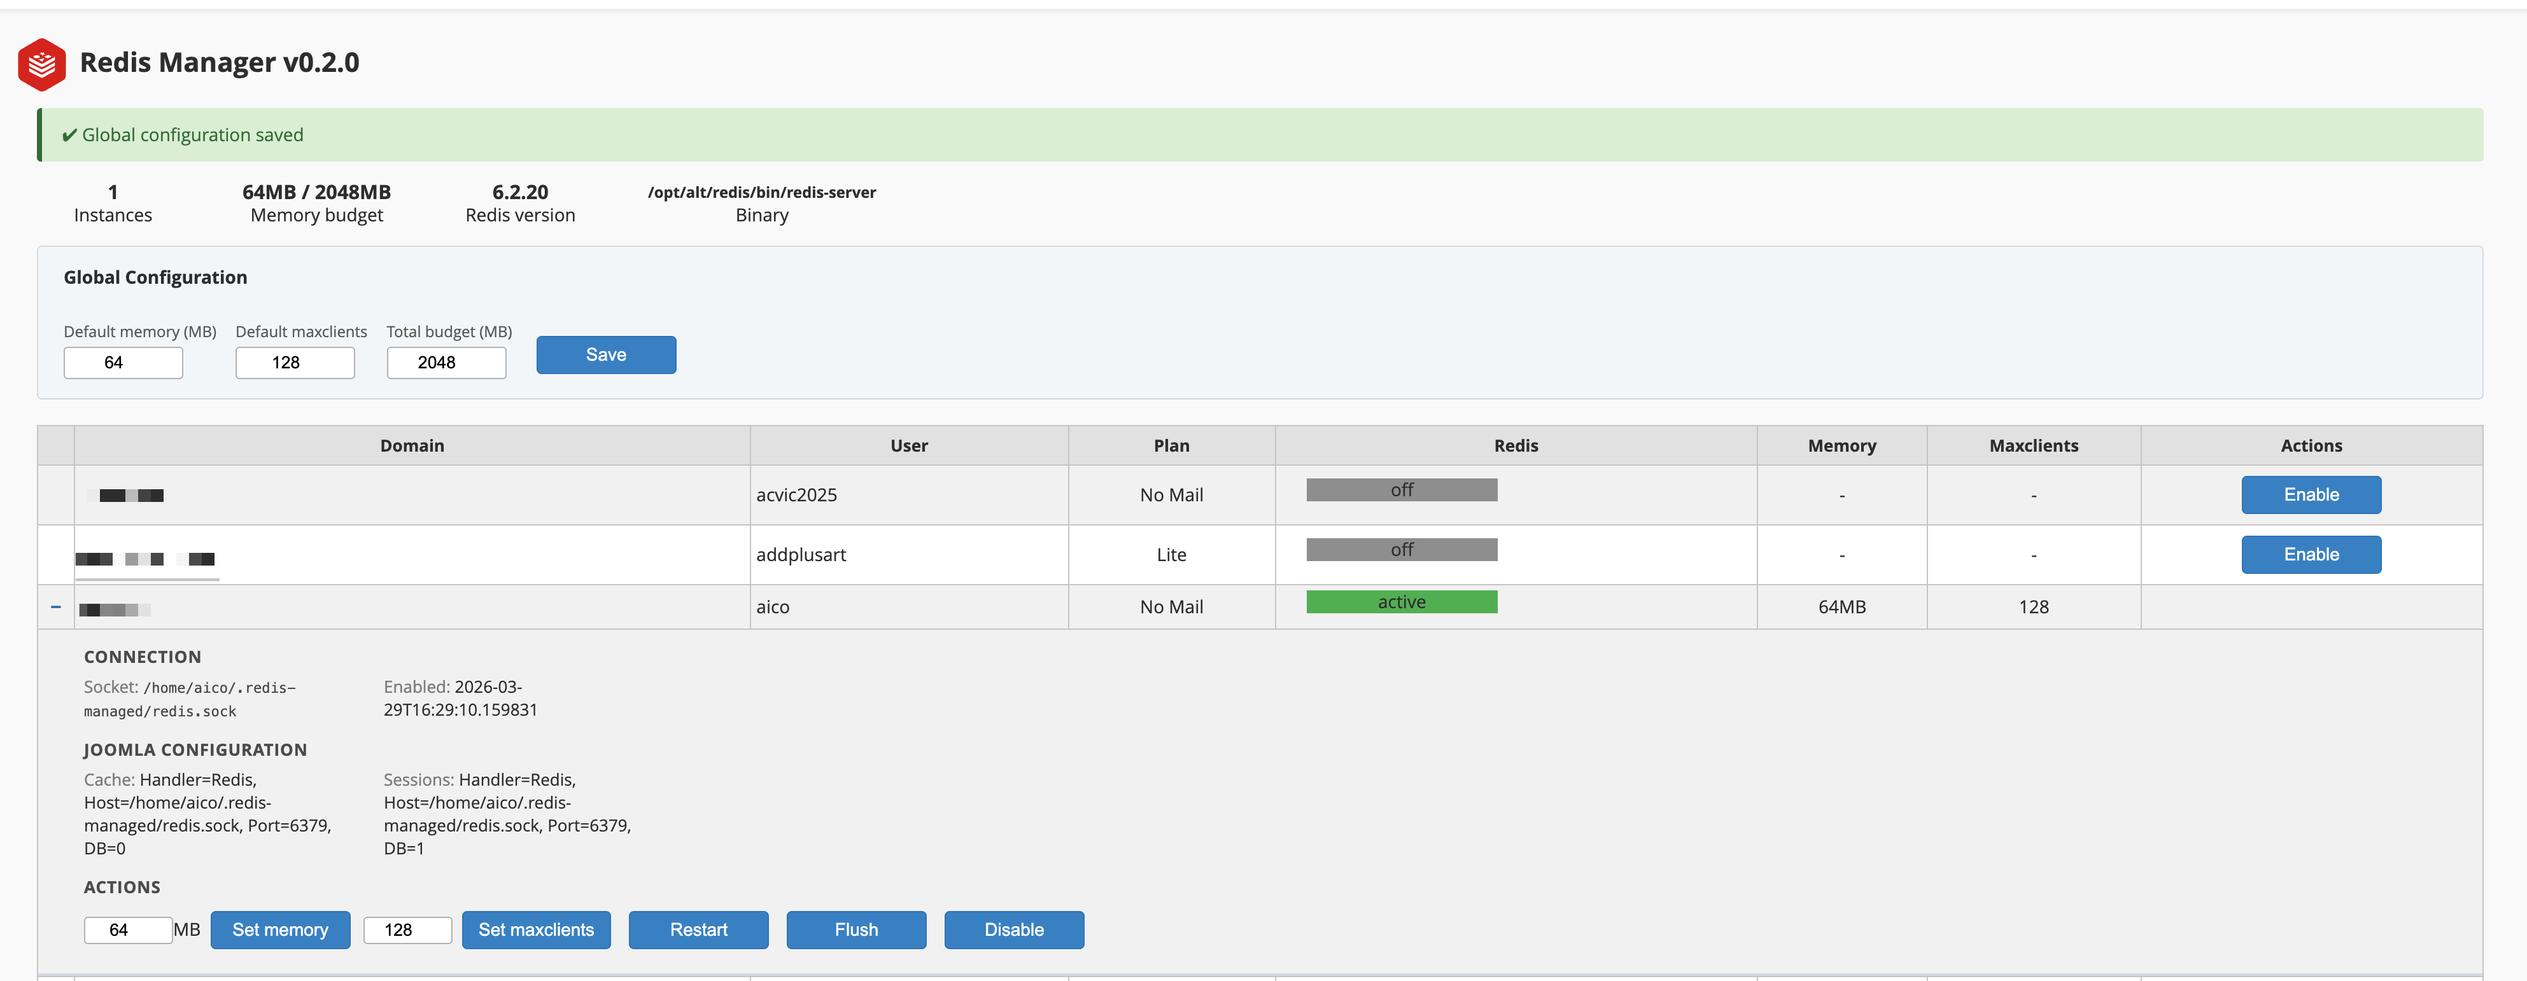
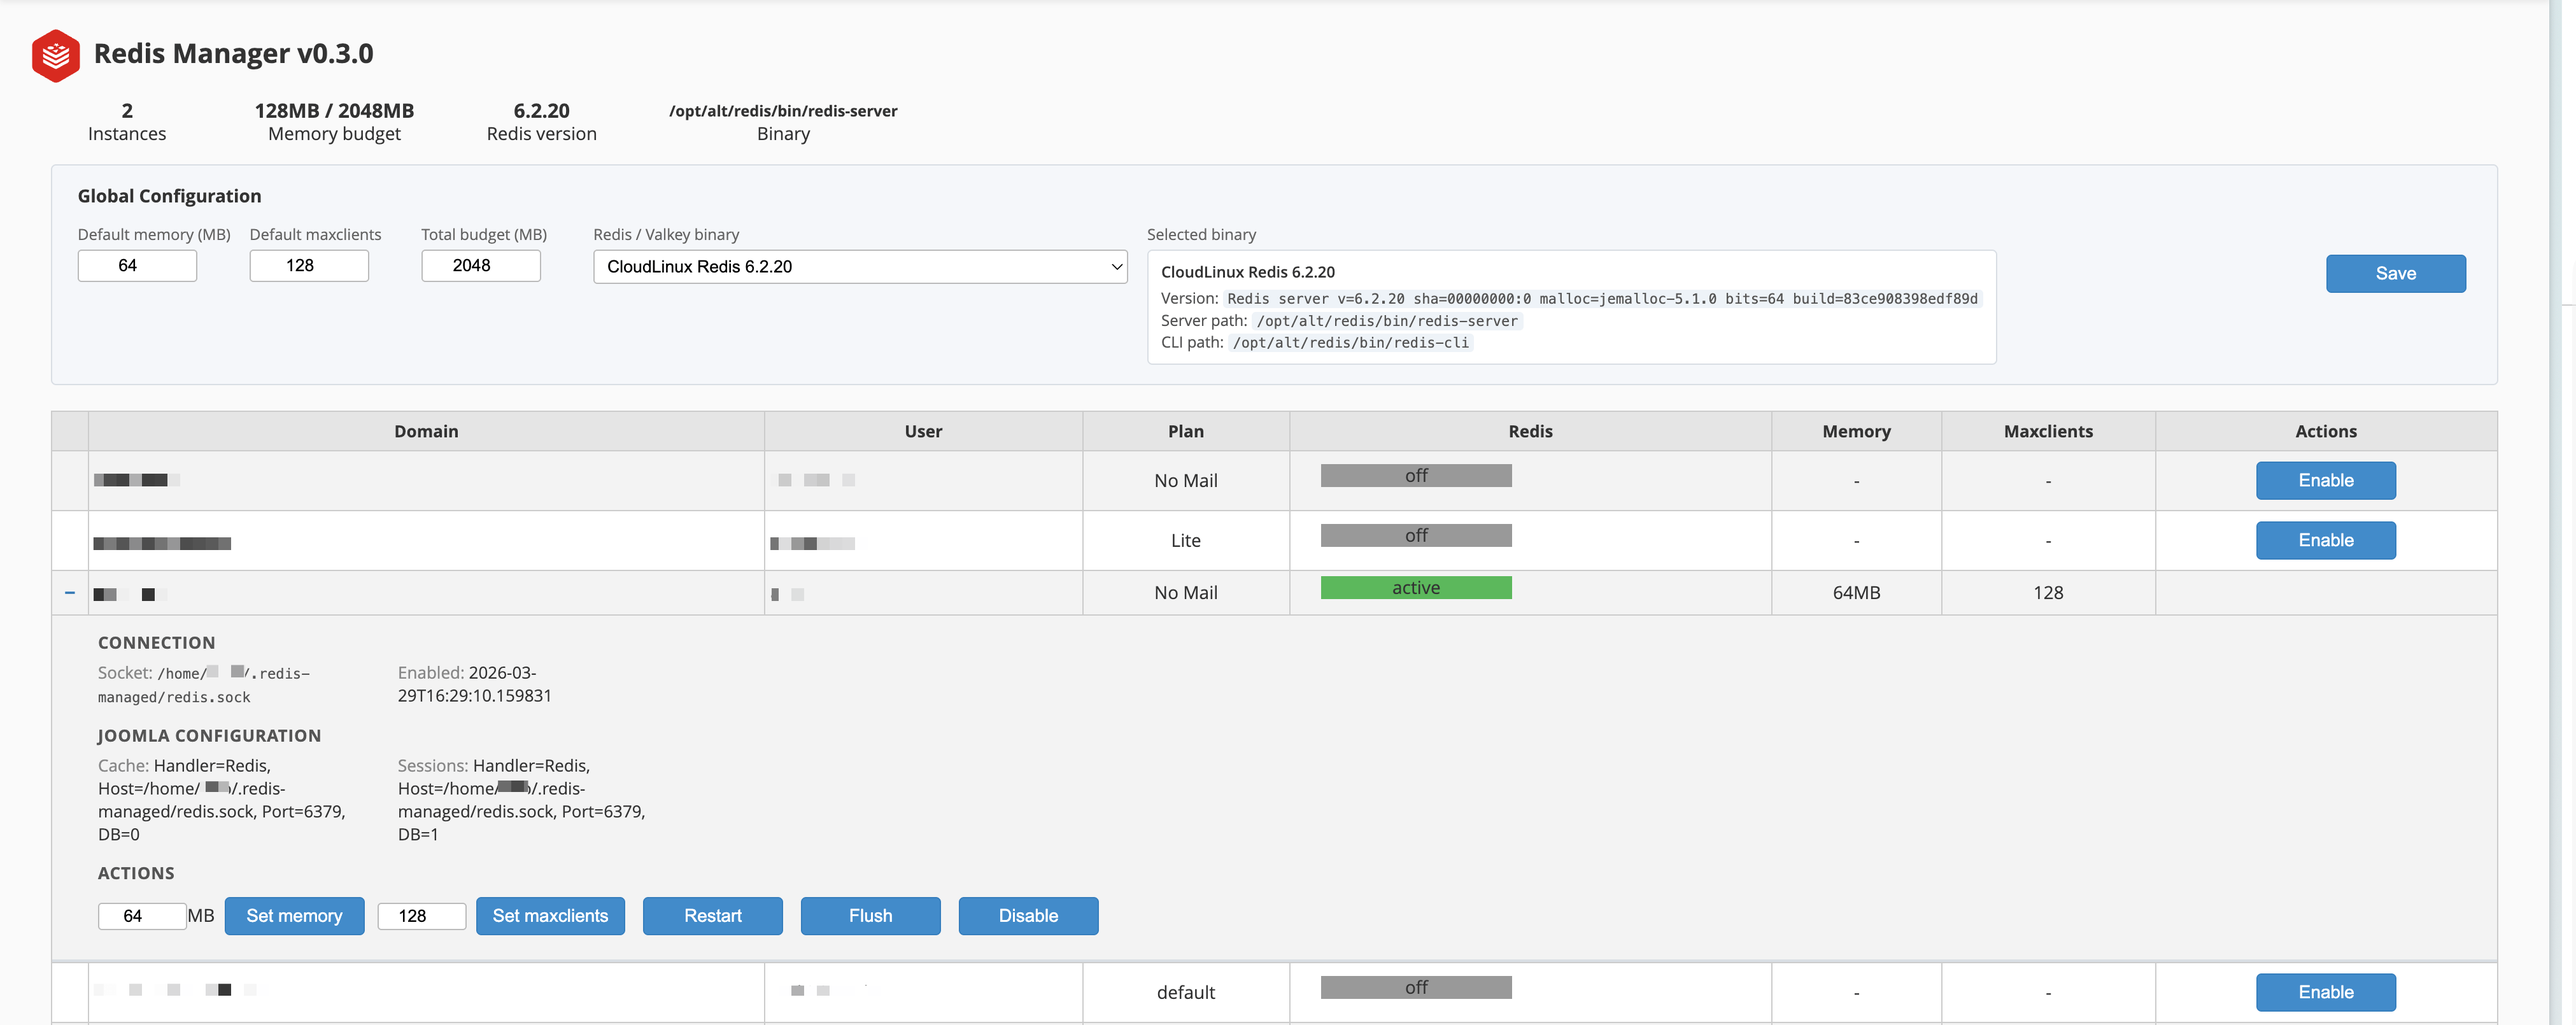
Polish binary selector UI and refresh docs

diff --git a/README.md b/README.md
@@ -17,8 +17,9 @@ Built primarily for **Joomla** sites that can't use AccelerateWP, but works for 
 - Creates **isolated Redis instances per cPanel user**, each running under the user's UID inside CageFS
 - Uses **Unix sockets** (no TCP ports exposed) with `600` permissions — users can only access their own Redis
 - Integrates with **CloudLinux LVE limits** — Redis memory and CPU count towards the user's resource allocation
-- Provides a **WHM admin interface** (Plugins → Redis Manager) to enable/disable Redis per account, adjust memory and maxclients, and edit global settings
+- Provides a **WHM admin interface** (Plugins → Redis Manager) to enable/disable Redis per account, adjust memory and maxclients, edit global settings, and inspect active Joomla wiring
 - Automatically deploys **PHP session locking** (`.user.ini`) to prevent race conditions in Joomla admin
+- Can **detect available Redis / Valkey binaries**, switch the selected server binary, regenerate the systemd template, and restart managed instances from WHM
 - Includes **cPanel hooks** for automatic cleanup on account deletion/suspension
 - Runs a **health check cron** every 5 minutes to restart failed instances
 - Enforces a **global memory budget** (default: 2 GB) to prevent overcommitting server RAM
@@ -26,7 +27,7 @@ Built primarily for **Joomla** sites that can't use AccelerateWP, but works for 
 
 ## What it does NOT do
 
-- **Does not install its own Redis binary.** It depends on `alt-redis`, the Redis package shipped by CloudLinux as part of AccelerateWP. If `alt-redis` is not installed, RedisManager will refuse to enable instances.
+- **Does not install its own Redis binary.** It expects an existing Redis or Valkey server binary on the host. By default this is usually CloudLinux `alt-redis`, but the binary is selectable from the global configuration panel.
 - **Does not interfere with AccelerateWP.** WordPress sites managed by AccelerateWP continue to work as before. RedisManager uses a separate directory (`~/.redis-managed/`) and AccelerateWP's monitoring daemon ignores our instances (verified by code inspection of `clwpos_monitoring`'s `_validate_redis_proc()` — it specifically checks for `.clwpos/redis.sock` in the process cmdline).
 - **Does not configure your CMS automatically on enable.** After enabling Redis for a user, you must manually configure the CMS (Joomla, Drupal, etc.) to use the Redis socket. Instructions are shown in the WHM interface. On disable, RedisManager now tries to switch Joomla sites using the managed socket back to `file` cache and `database` sessions first, to avoid leaving the site with 500 errors.
 - **Does not provide Redis Cluster, Sentinel, or replication.** Each instance is a standalone, single-node Redis server running in cache-only mode (no persistence).
@@ -41,7 +42,7 @@ Built primarily for **Joomla** sites that can't use AccelerateWP, but works for 
 
 ## Compatibility
 
-- **Redis → Valkey migration:** CloudLinux may migrate from Redis to Valkey (the open-source Redis fork). This is fully compatible — same protocol, same config format. Update `REDIS_BINARY` in the global configuration and reinstall the systemd template unit (re-run `install.sh`). See [Known limitation: REDIS_BINARY vs systemd](#known-limitation-redis_binary-vs-systemd).
+- **Redis → Valkey migration:** CloudLinux may migrate from Redis to Valkey (the open-source Redis fork). RedisManager supports this by detecting compatible binaries, letting you select one from WHM, and applying the change without reinstalling the plugin.
 
 ## Installation
 
@@ -114,6 +115,7 @@ Go to **WHM → Plugins → Redis Manager**. From there you can:
 - **Restart**, **Flush**, or **Disable** an instance
 - **Edit global configuration** (default memory, default maxclients, total budget) — saved to `/opt/redismanager/etc/redismanager.conf`
 - **Select the Redis / Valkey server binary** from detected binaries and apply it without reinstalling the plugin
+- **Review the selected binary details** (friendly name, version, server path, CLI path) directly in the global configuration panel
 
 ### WHM registration notes
 
@@ -251,6 +253,8 @@ Any application that supports Redis via Unix sockets can use the managed instanc
 
 The global configuration panel can detect supported server binaries (for example CloudLinux Redis and Valkey installs), save the selected path as `REDIS_BINARY`, regenerate `redis-managed@.service`, reload systemd, and restart managed instances.
 
+The WHM dropdown shows a short friendly label, while the adjacent info panel shows the active binary's version plus the server and CLI paths. This keeps the selector readable without hiding operational detail.
+
 From the CLI, the same flow is available with:
 
 ```bash
@@ -331,20 +335,6 @@ Global settings are in `/opt/redismanager/etc/redismanager.conf` (also editable 
 | `DEFAULT_MAXCLIENTS` | `128` | Default max connections per instance |
 | `TOTAL_BUDGET_MB` | `2048` | Total memory budget across all instances |
 | `USE_CAGEFS` | `true` | Launch Redis inside CageFS |
-
-### Known limitation: REDIS_BINARY vs systemd
-
-The `REDIS_BINARY` setting in `redismanager.conf` controls which binary the CLI validates and displays, but the **systemd template unit** (`redis-managed@.service`) has the binary path hardcoded in its `ExecStart` directive. If you change `REDIS_BINARY` (e.g., for a Redis → Valkey migration), you must also re-run `install.sh` to update the systemd unit, then restart affected instances:
-
-```bash
-cd /path/to/RedisManager
-bash install.sh
-systemctl daemon-reload
-# Restart all managed instances
-for user in $(redismanager-ctl list | awk 'NR>2 && $1!="Total:" && $1!="----" {print $1}'); do
-    redismanager-ctl restart "$user"
-done
-```
 
 ## Security notes
 
